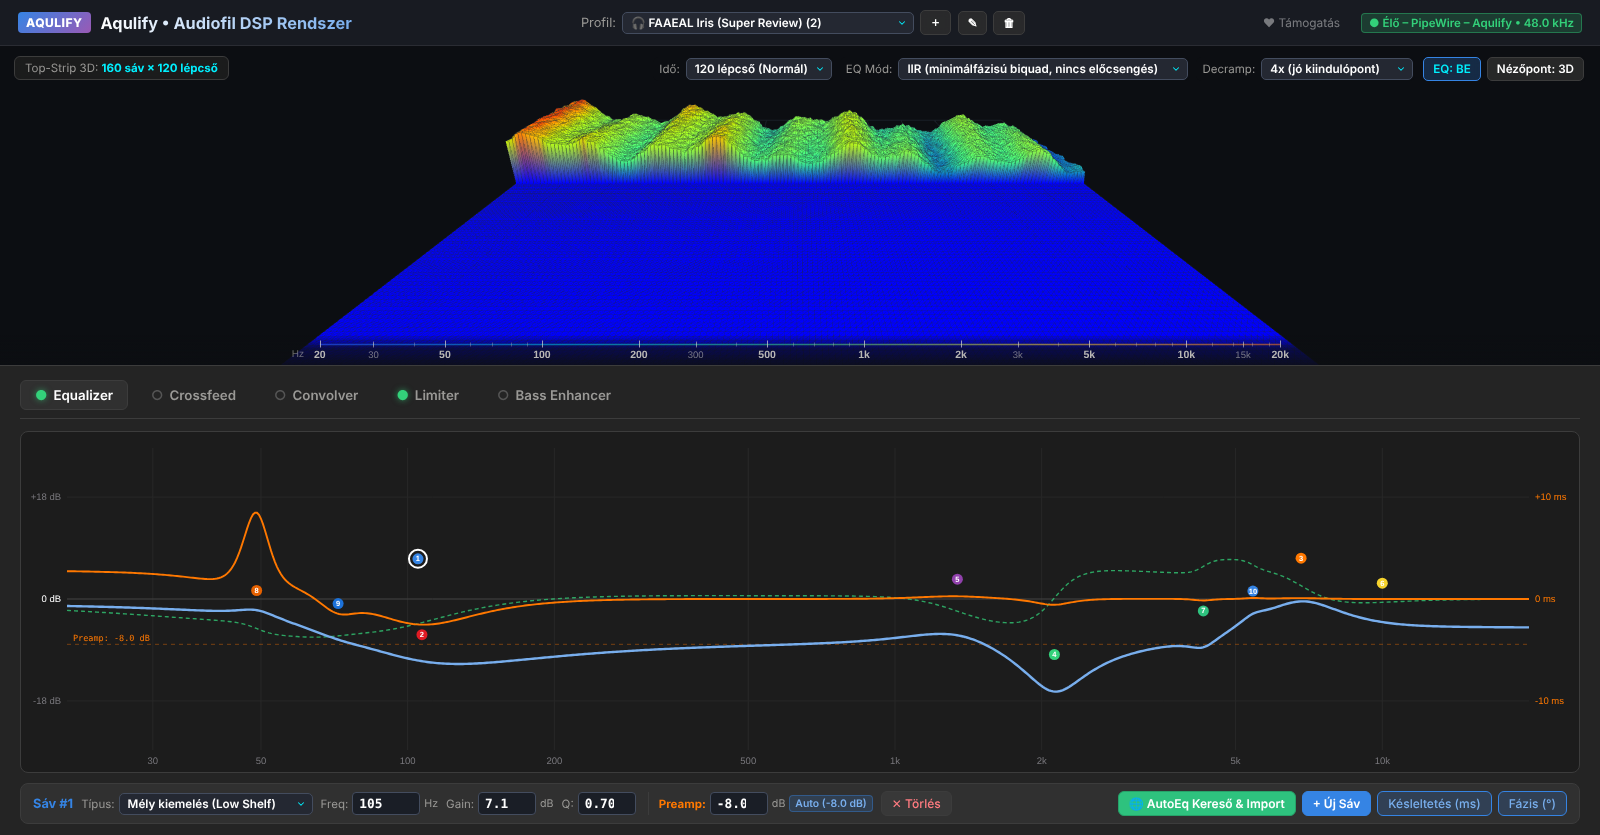
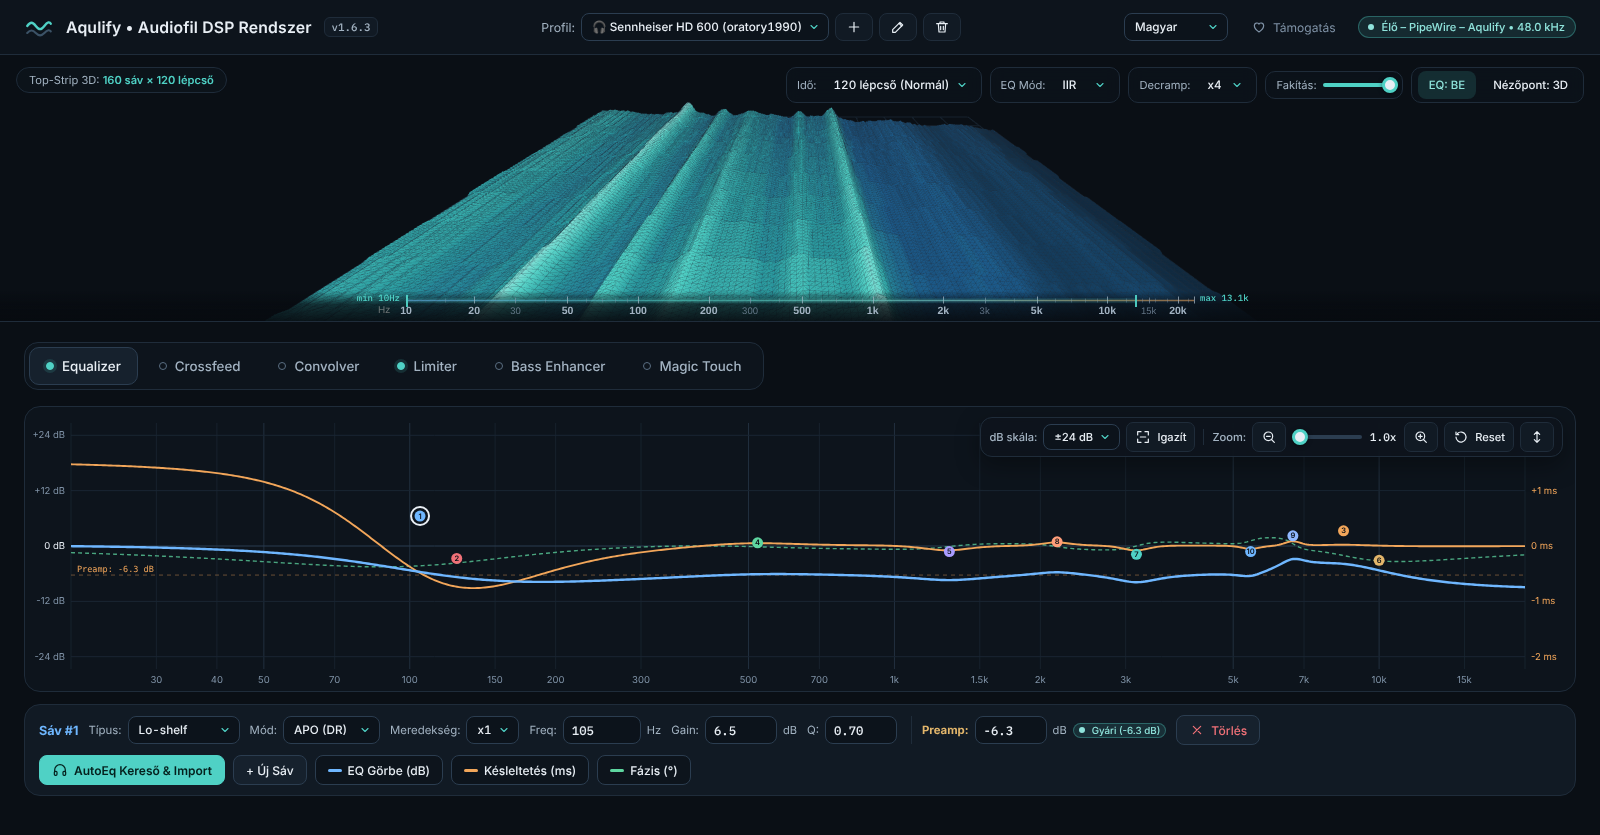
README új leírással, változásnapló, új képernyőkép
- README: új cím és bevezető (mit tud, min fut, licenc) a képernyőképpel;
  a Magic Touch a fő képességek között; a felület nyelvei és ablakai.
- RELEASE_NOTES: a következő kiadás újdonságai, javításai és az előkészített
  részek (Magic Touch, új megjelenés, nyelvek, EQ nagyítás, Linux és
  Windows javítások, Raspberry Pi).
- docs/screenshots/aqulify-main.png (AppStream adatlap): az új megjelenés,
  egy valódi AutoEq profillal (Sennheiser HD 600, oratory1990).

Claude-Session: https://claude.ai/code/session_01XMaMEpkuaHSUGMLKQJLUy5

diff --git a/README.md b/README.md
@@ -1,4 +1,4 @@
-# Aqulify • Valós Idejű Fázis, Spektrum & Akusztikai Vízesés DSP Csomag
+# Aqulify • Audiofil DSP rendszer Linuxra és Windowsra
 
 [![GitHub Release](https://img.shields.io/github/v/release/Szorgos/ee-phase-waterfall-analyzer?style=flat-square&color=blue)](https://github.com/Szorgos/ee-phase-waterfall-analyzer/releases/latest)
 [![Windows Download](https://img.shields.io/badge/Windows%2011-Telep%C3%ADt%C5%91%20(.exe)-0078D6?style=flat-square&logo=windows)](https://github.com/Szorgos/ee-phase-waterfall-analyzer/releases/latest/download/Aqulify-Setup.exe)
@@ -11,8 +11,10 @@
 > *(Telepítő: Aqulify motor tálcaikonnal, saját ablakos felület és az Equalizer APO plugin automatikus bekötése. Korábbi verziók és ellenőrzőösszegek: [Kiadások](https://github.com/Szorgos/ee-phase-waterfall-analyzer/releases).)*
 
 ---
-**Projekt:** `Aqulify`  
-**Cél:** Valós idejű DSP lánc (EQ, crossfeed, konvolver, bass enhancer, limiter) az EasyEffects DSP könyvtáraival, élő 3D akusztikai vízeséssel és az EQ fázis- / csoportkésleltetés-görbéjével – Linuxon (PipeWire) és Windows 11-en (Equalizer APO).
+
+Az **Aqulify** valós idejű hangfeldolgozó lánc zenehallgatáshoz: parametrikus EQ több mint 8 850 AutoEq fejhallgató-profillal, crossfeed, konvolver (szobakorrekció), bass enhancer és True Peak limiter az EasyEffects DSP könyvtáraival, valamint a **Magic Touch**, egy automatikus, visszafogott hangszépítő és helyreállító. A lejátszott jel valódi spektruma élő 3D vízesésen látszik, az EQ fázis- és csoportkésleltetés-görbéjével együtt. Linuxon PipeWire virtuális kimenetként, Windows 11-en Equalizer APO pluginként működik; a felület magyarul és angolul használható. Ingyenes és nyílt forrású (GPL-3.0).
+
+![Aqulify: élő 3D vízesés és parametrikus EQ egy AutoEq fejhallgató-profillal](docs/screenshots/aqulify-main.png)
 
 ---
 
@@ -34,7 +36,7 @@ Az **Aqulify** ezt egyesíti a modern digitális jelfeldolgozással:
    * A motor valódi FFT spektruma (160 logaritmikus sáv, 10 Hz – 24 kHz) 60 FPS gördüléssel.
    * **GPU-gyorsítás a zene védelmében:** A 3D felületet a videokártya rajzolja (Linuxon OpenGL/Mesa, Windowson Direct3D backenddel a WebGL alatt); a rács pontjait és színeit a JavaScript számolja, így a grafika **csak kis mértékben terheli a processzort**, és még a legösszetettebb nézeteknél sem akasztja meg a valós idejű zenelejátszást (zéró hangkimaradás).
    * **Fakítás és testreszabás:** Állítható hőtérkép-fakítás csúszka (élénk színektől a lágy szürkeárnyalatig); időlépcsők: 60 / 120 / 180; nézőpontok: 3D izometrikus, oldalsó profil, felülnézet.
-   * **Frekvenciaskála (10 Hz – 24 kHz):** A vízesés alatt elhelyezett skála azonnal leolvashatóvá teszi a csúcsokat. A skála két szélén kis diszkrét felirat mutatja az elmúlt 10 másodpercben mért legmélyebb (Hz) és legmagasabb (kHz) frekvenciát, a gyors kék határolójelek pedig valós időben követik a hangsáv tartományát.
+   * **Frekvenciaskála (10 Hz – 24 kHz):** A vízesés alatt elhelyezett skála azonnal leolvashatóvá teszi a csúcsokat. A skála két szélén kis diszkrét felirat mutatja az elmúlt 10 másodpercben mért legmélyebb (Hz) és legmagasabb (kHz) frekvenciát, a gyors türkiz határolójelek pedig valós időben követik a hangsáv tartományát.
    * **Előcsengés (pre-ringing) jelzése:** FIR / FFT / SPM (lineáris fázisú) módban egy diszkrét felirat jelzi, hogy előcsengés lehetséges. Mértéke általában olyan kicsi, hogy a vízesésen alig látszik; a program nem nagyítja fel.
 
 2. **EQ-görbe, fázis és csoportkésleltetés ($-\frac{d\phi}{d\omega}$):**
@@ -54,9 +56,16 @@ Az **Aqulify** ezt egyesíti a modern digitális jelfeldolgozással:
    * **Limiter (LSP Limiter):** 12 mód, túlmintavételezés (True Peak is), dither, lookahead / attack / release, stereo link, gain boost, ALR, bemeneti és kimeneti erősítés; alapértelmezés: -1,0 dB küszöb, True Peak / 24 bit. Kikapcsolt limiternél csak a 0 dBFS feletti minták vágódnak le. A túlvezérlés ellen elsősorban a teljes EQ-görbéhez igazított előerősítés véd; a limiter biztonsági háló (negatív preampú profil importjakor vagy betöltésekor automatikusan bekapcsol), nem hallásvédelem.
    * **Bass Enhancer (Calf):** pszichoakusztikai hiányzó alaphang szintézis (amount, harmonics, scope, floor, blend, listen, bemeneti és kimeneti erősítés).
 
-5. **Motor és felület:**
+5. **Magic Touch – automatikus, visszafogott hangszépítő:**
+   * Elemzi a lejátszott felvételt (hangosság és dinamika BS.1770 / EBU 3342 szerint, hangszín, sziszegés, zajpadló, sztereókép), és csak azt igazítja, ami hiányzik vagy zavaró, kemény korlátokkal: mély-közép vágás, levegő, de-esser, mono basszus, tágítás, mikrodinamika, exciter. A kimenet hangossága megegyezik a bemenetével; rendben lévő felvételen a jel bitre érintetlen.
+   * **Karakter:** Természetes, Meleg, Fényes, Tágas. **Tartalom:** Automatikus (felismeréssel), Zene, Beszéd, Archív felvétel.
+   * **Helyreállítás:** 50/60 Hz-es zümmögés eltávolítása, kattanásjavítás, zajcsökkentés (beszédnél RNNoise). Késleltetés csak akkor lép fel, ha a kattanásjavítás (2,7 ms) vagy az RNNoise (32,7 ms) dolgozik.
+   * Intenzitás csúszka, hangerőre kiegyenlített A/B összehasonlítás, részletes diagnosztika ([terv és működés](docs/plans/magic-touch.md)).
+
+6. **Motor és felület:**
    * Linuxon PipeWire virtuális kimenet („Aqulify”), Windowson Equalizer APO plugin. A hangszál zárak nélkül veszi át a beállításokat; a modulok be- és kikapcsolása, valamint az EQ-mód és a decramp váltása rövid le- és felúsztatással, kattanás nélkül történik (lineáris fázisú módra váltáskor a kimenet a módhoz tartozó késleltetés kitöltéséig, kb. 0,1 s-ig néma). A felület és a grafika külön folyamatban fut, nem tartja fel a lejátszást.
-   * WebSocket híd a `127.0.0.1` címen (az első szabad port: 47810–47814, végső tartalékként 8080): a motor a spektrumot, az EQ-görbét, a limiter erősítéscsökkentését és a mentett állapotot küldi; a felület az összes modulbeállítást, az IR-t és az EQ profilokat.
+   * WebSocket híd a `127.0.0.1` címen (az első szabad port: 47810–47814, végső tartalékként 8080): a motor a spektrumot, az EQ-görbét, a limiter erősítéscsökkentését és a mentett állapotot küldi; a felület az összes modulbeállítást, az IR-t és az EQ profilokat (a protokoll leírása: [docs/remote-api.md](docs/remote-api.md)).
+   * **Felület:** magyarul és angolul (alapból a rendszer nyelvén, váltás a fejlécben); Linuxon saját ablakban (WebKitGTK, ennek hiányában böngészőben), Windowson saját ablakban (WebView2).
 
 ---
 
@@ -174,7 +183,7 @@ cmake --build build -j$(nproc)
 ├── CMakeLists.txt              # C++20 szabványos építőrendszer (Linux & Windows)
 ├── install.sh                  # Univerzális Linux disztró-felismerő és telepítő szkript
 ├── uninstall.sh                # Linux eltávolító
-├── gui_integrated_system.html  # Grafikus felület (Adwaita stílus) és 3D WebGL vízesés
+├── gui_integrated_system.html  # Grafikus felület és 3D WebGL vízesés (beágyazott Inter és IBM Plex Mono betűkkel)
 ├── autoeq_index.js             # 8 850+ modellt tartalmazó AutoEq fülhallgató adatbázis
 ├── gui_i18n.js                 # A felület szövegei magyarul és angolul (előállítva: tools/i18n_build.py)
 ├── i18n/                       # Fordítások forrásai: gui/ (felület), native/ (tálca, telepítő), scripts/ (install.sh)
@@ -208,7 +217,7 @@ cmake --build build -j$(nproc)
 │   ├── test_core.cpp           # Közös mag teszt (FFT, paraméterfájl, seqlock, tap, JSON)
 │   ├── test_dsp.cpp            # DSP modulok és teljes lánc teszt
 │   └── test_ringbuffer.cpp     # Többszálú valós idejű stabilitási tesztprogram
-├── third_party/                # LSP, Calf, libbs2b, SpeexDSP, zita-convolver, RNNoise (forrás, licencekkel)
+├── third_party/                # LSP, Calf, libbs2b, SpeexDSP, zita-convolver, RNNoise (forrás, licencekkel); fonts/: betűtípus-licencek
 └── windows/
     ├── README_WINDOWS.md       # Windows telepítés, használat, fordítás
     ├── engine/                 # Aqulify.exe (tálcás motor, WASAPI loopback, plugin híd)

diff --git a/RELEASE_NOTES.md b/RELEASE_NOTES.md
@@ -1,3 +1,22 @@
+### Újdonságok (következő kiadás)
+- **Magic Touch:** új, automatikus és visszafogott hangszépítő modul a lánc elején, Linuxon és Windowson ugyanazzal a kóddal. Elemzi a lejátszott felvételt, és csak azt igazítja, ami hiányzik vagy zavaró; a kimenet hangossága megegyezik a bemenetével, rendben lévő felvételen a jel bitre érintetlen, 0 %-on a modul kimarad a láncból.
+  - *Hangszín és tér:* mély-közép vágás (legfeljebb 3 dB), levegő (legfeljebb +2 dB), de-esser (legfeljebb 4 dB), fokozatos mono basszus, tágítás 150 Hz felett (Crossfeed mellett nincs).
+  - *Mikrodinamika és exciter:* tranziens-kiemelés és a halk részek finom emelése, csak lapos dinamikánál; páros felharmonikusok 6 kHz felett, ahol a magas hiányzik.
+  - *Karakter:* Természetes, Meleg, Fényes, Tágas. *Tartalom:* Automatikus (felismeréssel), Zene, Beszéd, Archív felvétel.
+  - *Helyreállítás:* az 50/60 Hz-es zümmögés eltávolítása, kattanásjavítás, zajcsökkentés (beszédnél RNNoise). Késleltetés csak akkor lép fel, ha a kattanásjavítás (2,7 ms) vagy az RNNoise (32,7 ms) dolgozik.
+  - Intenzitás csúszka, hangerőre kiegyenlített A/B összehasonlítás, részletes diagnosztika.
+- **Új megjelenés:** sötét, „víz és fény” arculat türkiz kiemelőszínnel; beágyazott Inter és IBM Plex Mono betűtípus (hálózat nélkül is); egységes vonalas ikonok az emojik helyett; új vízesés-színskála (mély kék → türkiz → borostyán csúcsok); kitöltött csúszkák, új állapotjelvények és modulpontok. Linuxon a címsor, Windows 11-en a címsor színe is a felülethez igazodik, és a felület háttere már betöltés előtt is sötét.
+- **Magyar és angol nyelv mindenhol:** a felület (nyelvválasztó a fejlécben, alapból a rendszer nyelve), Windowson a tálcamenü, az üzenetablakok, a telepítő és az eltávolító, Linuxon az `install.sh` / `uninstall.sh`, a menübejegyzés és a PipeWire kimenet neve.
+- **2D EQ grafikon:** függőleges nagyítás (±1 … ±48 dB, folyamatosan Ctrl+Shift+görgővel a kurzor magasságánál) és eltolás (húzás, Alt+görgő); az „Igazít” gomb egy kattintással mindent láthatóvá tesz, és jelzi, ha a görbe vagy egy sáv kilóg; a nézeten kívüli sáv a szélen nyílként látszik.
+
+### Javítások (következő kiadás)
+- **Linux felület:** bezáráskor nem omlik össze a WebKit tartalomfolyamata (nincs core dump), és nem akad meg; a vízesés követi az ablak átméretezését, rejtett ablakban nem rajzol.
+- **Windows:** a Feladatkezelőben helyes a felület neve (eddig „Aqulify felÃ¼let”).
+- **EQ grafikon:** nagyításkor a késleltetés-görbe a rajzterületen belül marad, a nézeten kívül futó EQ-görbe a szélen szaggatott vonallal látszik, a nagyítás-felirat a görbék fölött is olvasható.
+
+### Előkészítve
+- **Raspberry Pi (64 bites ARM):** a motor és a tesztek keresztfordítással lefordulnak (`linux/toolchain-aarch64-linux-gnu.cmake`), a tesztek QEMU alatt sikeresek; az így talált Convolver-hiba (100 %-os IR-szélességnél nem volt pontosan érintetlen) javítva. Valódi Pi-n még nem futott.
+
 ### Javítások (1.6.3)
 - **Felület ↔ motor:** megszűnt a felület és a motor közötti folyamatos üzenetváltás (tétlen felületnél is kb. 23 EQ-üzenet másodpercenként). Ennek következményei is megszűntek: a kézi módosítás ismét mentődik az aktív profilba, AutoEq-profil módosításakor létrejön a „– módosított” profil, a motor pedig nyitott felület mellett is elmenti a beállításokat (`params.bin`).
 - **Automatikus preamp:** az új sáverősítés és a hozzá tartozó preamp egyszerre lép életbe, profilváltáskor is (nincs rövid, előerősítés nélküli kiugrás).
